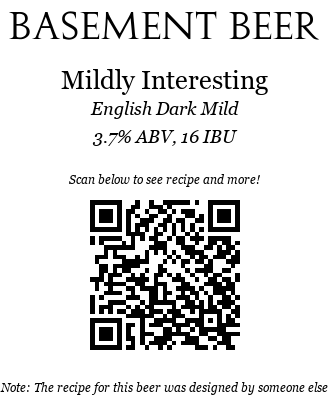
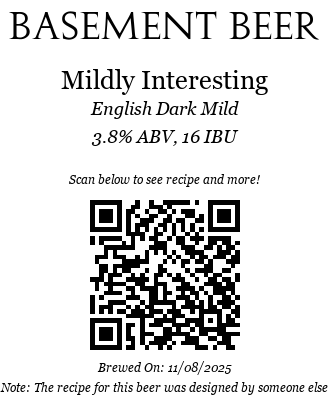
Added Brew Date

Changed region(s): [[0.2727, 0.3, 0.7273, 0.39], [0.5152, 0.9, 0.697, 0.93], [0.303, 0.9, 0.4848, 0.93]]

diff --git a/qr_code_generator.py b/qr_code_generator.py
@@ -1,7 +1,7 @@
 import qrcode
 from PIL import Image, ImageFont, ImageDraw
 
-def make_label(output_file: str, name: str, style: str, abv: float, ibu: int, guest_recipe: bool = False, url: str = None):
+def make_label(output_file: str, name: str, style: str, abv: float, ibu: int, guest_recipe: bool = False, brew_date: str = "", url: str = None):
     HEIGHT = 400
     WIDTH = int(HEIGHT * 0.825)
     BLACK= (0, 0, 0)
@@ -32,6 +32,7 @@ def make_label(output_file: str, name: str, style: str, abv: float, ibu: int, gu
     d.text((WIDTH * 0.5, HEIGHT * 0.20), name, fill=BLACK, anchor="mm", align="center", font=tfont)
     d.text((WIDTH * 0.5, HEIGHT * 0.27), style, fill=BLACK, anchor="mm", align="center", font=ifont)
     d.text((WIDTH * 0.5, HEIGHT * 0.34), f"{abv}% ABV, {ibu} IBU", fill=BLACK, anchor="mm", align="center", font=ifont)
+    d.text((WIDTH * 0.5, HEIGHT * 0.92), f"Brewed On: {brew_date}", fill=BLACK, anchor="mm", align="center", font=gfont)
     if guest_recipe:
         d.text((WIDTH * 0.5, HEIGHT * 0.97), "Note: The recipe for this beer was designed by someone else", fill=BLACK, anchor="mm", align="center", font=gfont)
 
@@ -45,7 +46,8 @@ def make_label(output_file: str, name: str, style: str, abv: float, ibu: int, gu
 make_label("mild.png", 
            "Mildly Interesting",
            "English Dark Mild",
-           3.7,
+           3.8,
            16,
            True,
+           "11/08/2025",
            "https://jlisenbee.github.io/LisenbeeCellars/#MildlyInteresting")
